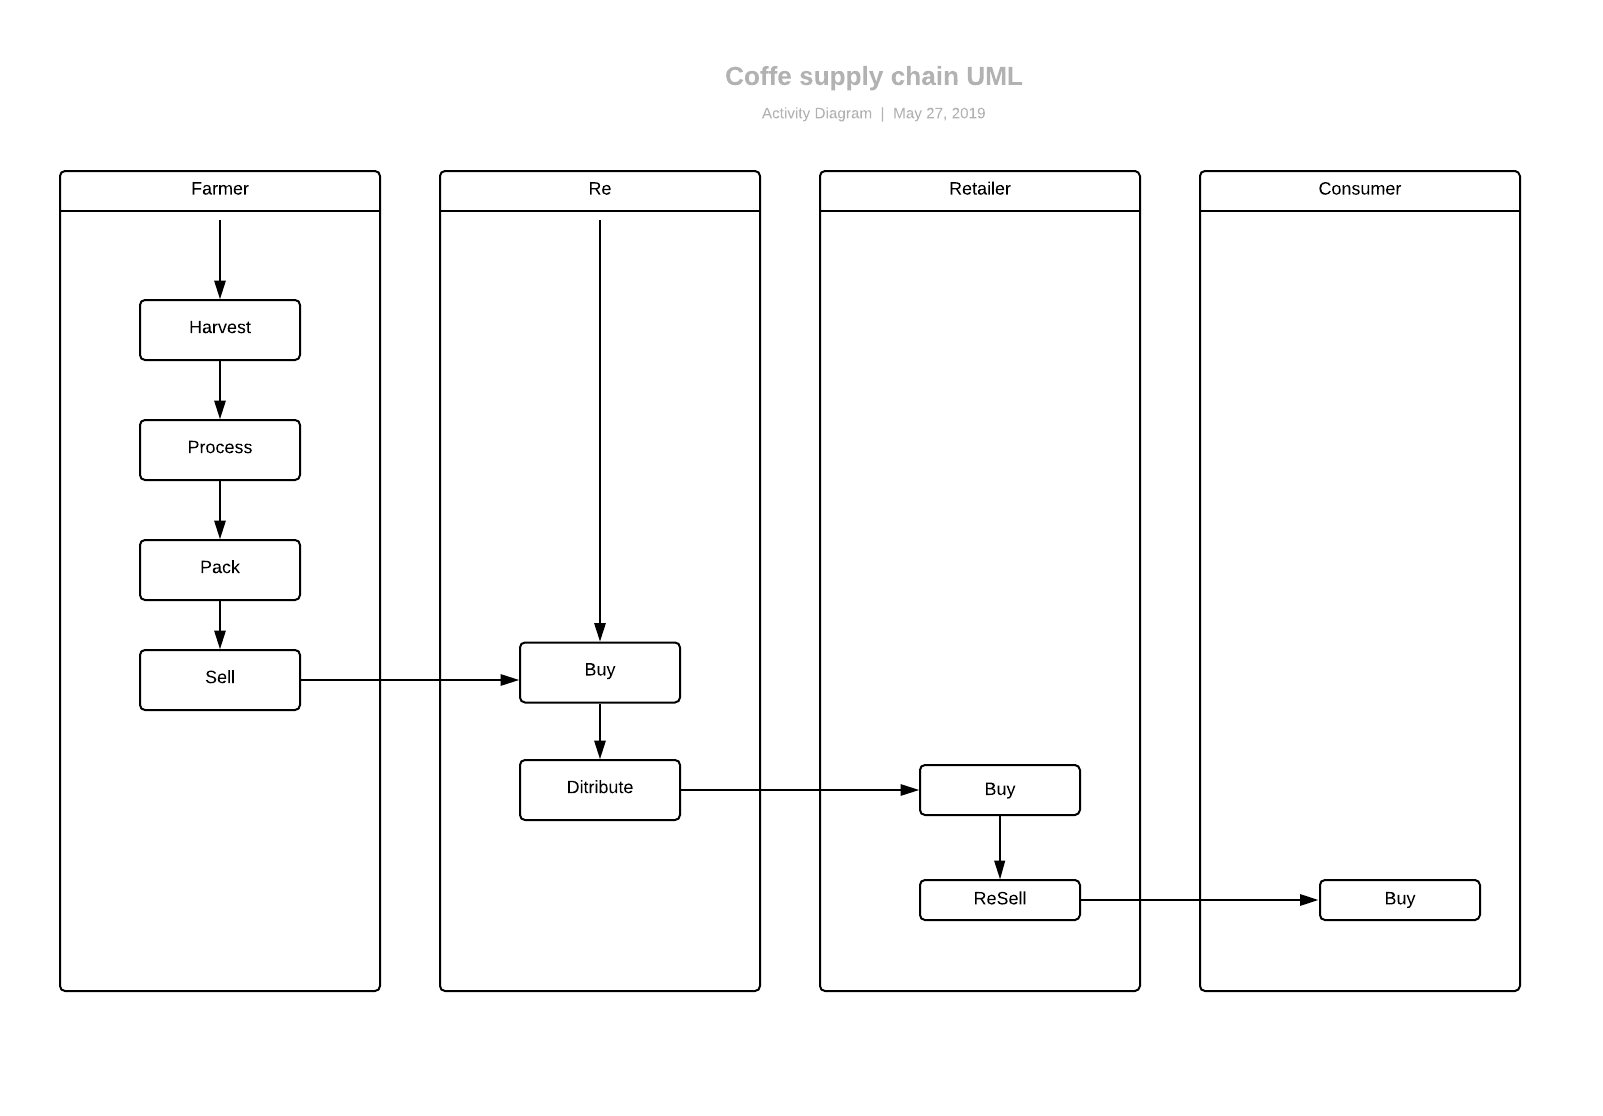
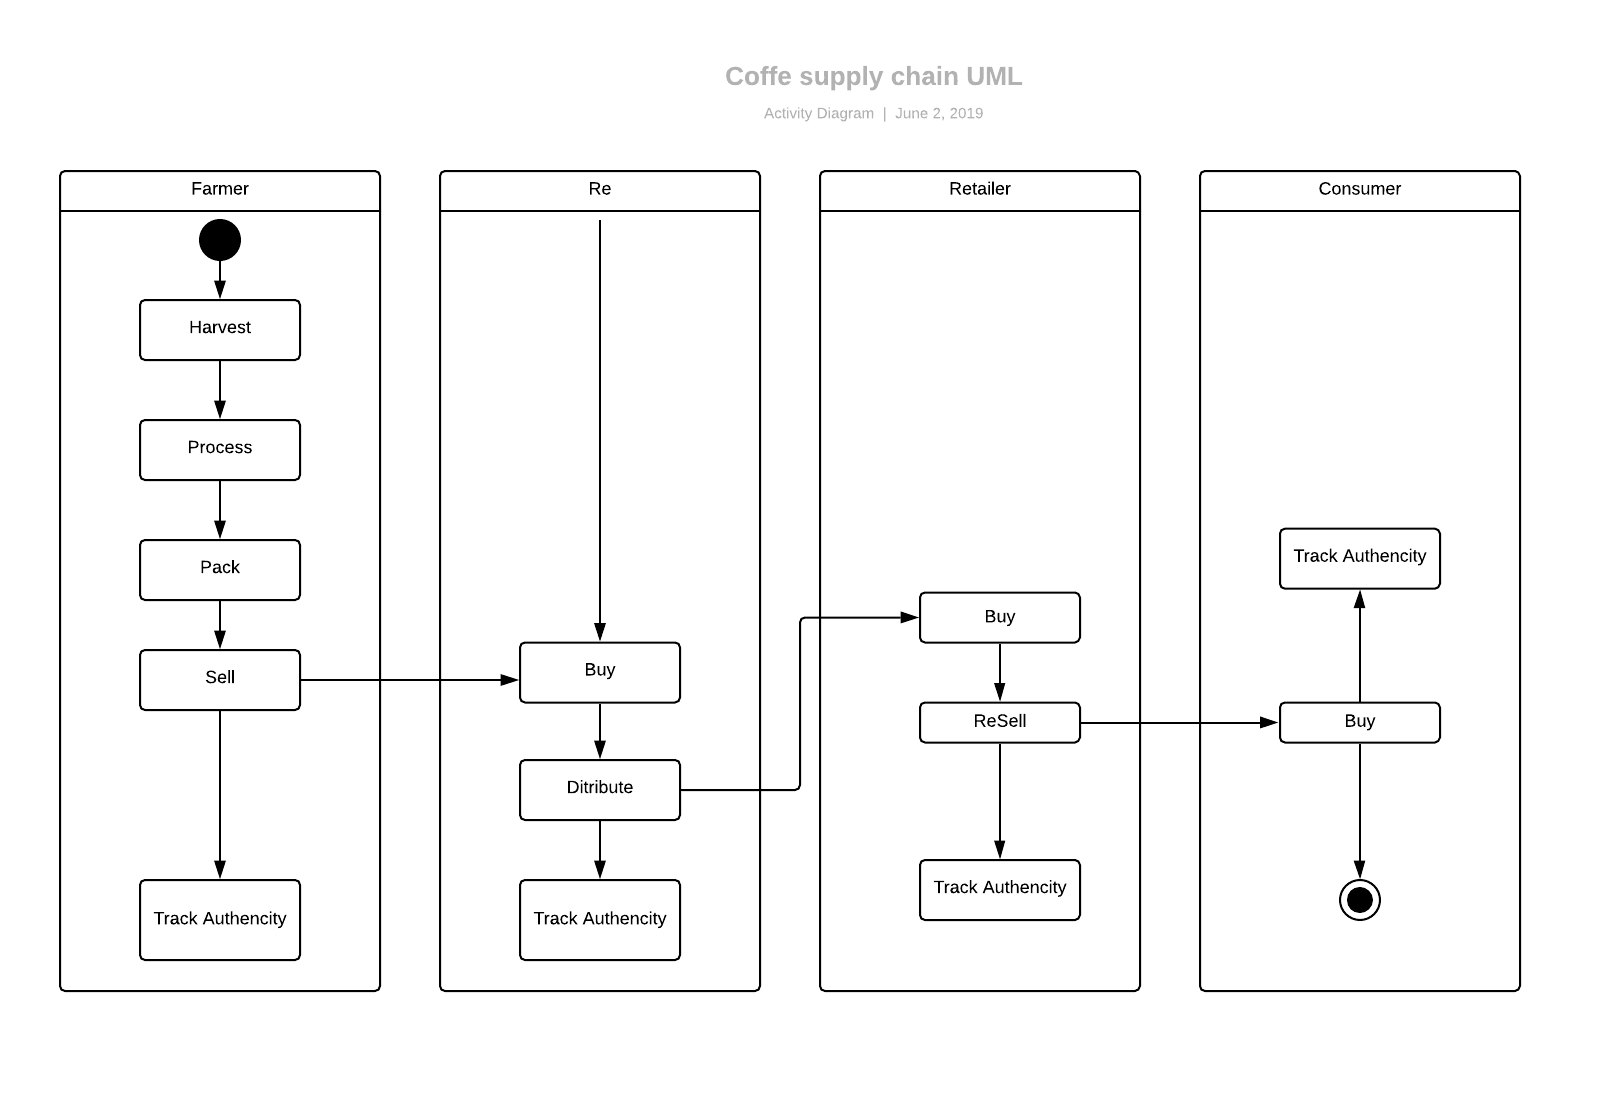
add an improvement

diff --git a/Readme.md b/Readme.md
@@ -1,6 +1,6 @@
 # FT-Coffee
 
-FT-Coffee is a supply chain DApp, that manage user permissions and track a product’s authenticity.
+FT-Coffee is a supply chain DApp, that demonstrates a Coffee Supply Chain flow between a farmer to consumer. A farmer can add items to the inventory system stored in the blockchain for each step like harvest, pack... A distributor can buy those item to the farmer.Then a retailer can receive it. After that a consumer can purchase such items from the retailer. Additionally anyone can track the recorde of the item.
 
 ## Preparation 
 
